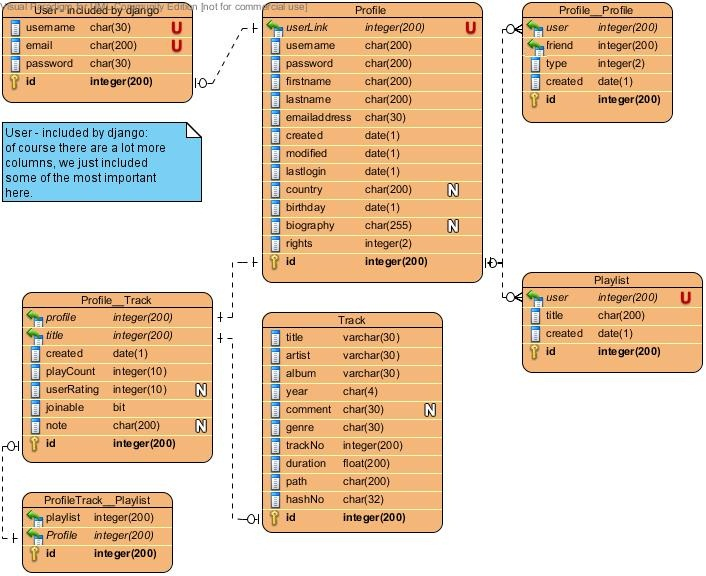
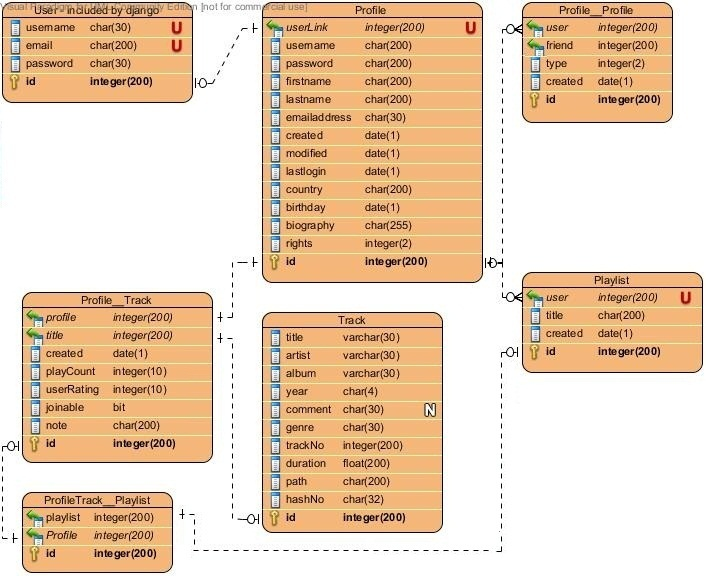
Added section about pair programming to analysis, edited database diagram but it needs more editing, expanded the description of the database diagram. Also added a new source.

diff --git a/Report/movingwhales/design/database_design.tex b/Report/movingwhales/design/database_design.tex
@@ -4,4 +4,25 @@
 \includegraphics[scale=0.5]{design/figures/mwdbdiagram}
 \caption{Movingwhales Database Diagram}
 \end{figure}
-The database diagram has been made as it has because the group has not had any course or theory about databases, so it is mostly made by intuition. As mentioned earlier in this report, Django uses an ORM so constructing the database has not been of the groups concerns. Even though Django took care the most of making the the database, the group still had to choose which attributes would be needed to fulfil the projects requirements. Though one of the tables is implemented by Django, that would be the User table.  
+The structure of the database is created by Django's ORM from the models written by the group. As it can be seen from the figure above, there
+are 7 tables: Profile, User, Profile\_\_Profile, Playlist, Track, Profile\_\_Track and 
+ProfileTrack\_\_Playlist. There are several other tables in the database, but these are never referenced in the code of the 
+project, and are only managed by Django. For ease of reading only tables and columns referenced in the code are shown. The 
+Profile\_\_Profile, Profile\_\_Track and ProfileTrack\_\_Playlist are relations between models.
+\begin{itemize}
+\item The Profile table includes the columns userlink, username, password, firstname, lastname, emailaddress, created, modified, lastlogin, country, birthday, biography, rights and an id.  The userlink is a one-to-one key to one entry in the User table, which is created first. The username, password and emailaddress are also included in the User table, which is native to Django, however this was not discovered until the database had already been created, and it would be far more work to remove the columns than to simply not use the ones in the Profile table. The e-mail column in the Profile table is used to store the publicly available e-mail address, where the User table's e-mail column is used to store the e-mail with which the profile is registered. This e-mail cannot be changed once saved. The columns firstname, lastname, country, birthday and biography are used to introduce the social aspect of the page, these can be customized to give other users information about the owner of the profile. 
+
+Created, modified, and lastlogin are for administrational purposes, in the event of a profile being compromised this shows if anything has been changed in the profile. The ``rights'' column shows the profile's rights on the page, i.e. whether they are a regular user, a moderator or and admin. This is not implemented in the current state of the project. 
+
+The id is given to all tables automatically by Django.
+
+\item The Track table stores information about a given track and includes the columns title, artist, album, year, comment, genre, trackNo, duration, path, hashNo and an id. This information is mostly what can be retrieved from and ID3-tag on a track, however hashNo and path are introduced by the group: The hashNo to give a name to the file and make sure that there are only unique tracks in the database, and the path to specify where on the server the track is located. 
+
+\item The Playlist table contains the columns user, title, created and an id. Seeing as a playlist in this system is merely an id that tracks can refer to, it doesn't contain any actual data about the songs in it. The user column contains a foreign key to an entry in the Profile table.
+
+\item The Profile\_\_Profile relation keeps track of the social aspect of having friends. It contains two foreign keys to two entries in the Profile table called user and friend, a type of relation, which can be either a friend or a request or an ignored person, a date of creation, and and id.
+
+\item The Profile\_\_Track relation keeps track of which songs are added to a given profile. It contains two foreign keys, one to an entry in the Profile table (user) and one to an entry in the Track table (track). It also contains the date created, a user rating, a count of how many times it has been played, a joinable setting and a note which is not yet implemented, and an id. 
+
+\item The last relation is the ProfileTrack\_\_Playlist relation, which only contains two foreign keys and an id. The foreign keys are to an entry in the Profile and in the Playlist table. This relation links tracks and playlists together through the Profile\_\_Track table.
+\end{itemize}

diff --git a/Report/movingwhales/analysis/pair_programming.tex b/Report/movingwhales/analysis/pair_programming.tex
@@ -1,0 +1,15 @@
+\section{Pair Programming}
+Pair programming is a coding technique used in agile development, where two programmers work together on one computer. 
+One is the ``driver'' and writes the code, the other is the ``navigator'', and reviews the code as it is being written. 
+The two switch every hour, or whenever they are comfortable. 
+This might seem like a terrible idea at first, seeing as you have two people doing one man's work, 
+but upon further inspection it turns out, that at a cost of only 15\% longer development-time 
+you get less errors, more efficient code and happier staff \cite{cockburn00}. 
+
+Programming in pairs forces the driver to explain his thoughts on the problem at hand, 
+and not coding actively allows the navigator to see flaws in the code 
+and focus on the solution of the next problem ahead of time. Having two people who know the code also
+means, that if someone leaves the group, it will not take long to understand the code left behind.
+The two programmers also learn from each other while programming, seeing as they can ask questions and show tips and tricks. Even a pair of a novice programmer and an expert produces better code, interviews state.\cite{cockburn00} However it is important to note, that both programmers have to care about the code being written, seing as they have to keep their focus on the task at hand while coding.
+
+Seeing as the group has a very different level of experience with programming, with some being complete beginners and some being seasoned programmer, pair programming could prove extremely useful in increasing the skill level of new programmers while producing better code. This is why the group has chosen pair programming as the programming style.

diff --git a/Report/movingwhales/analysis/main.tex b/Report/movingwhales/analysis/main.tex
@@ -6,6 +6,7 @@ Lorem ipsum dolor sit amet, consectetur adipiscing elit. Vivamus tempor purus ne
 %SECTIONS
 \input{analysis/requirements}
 \input{analysis/scrum}
+\input{analysis/pair_programming}
 \input{analysis/html5}
 \input{analysis/websocket}
 \input{analysis/choice_of_framework}
